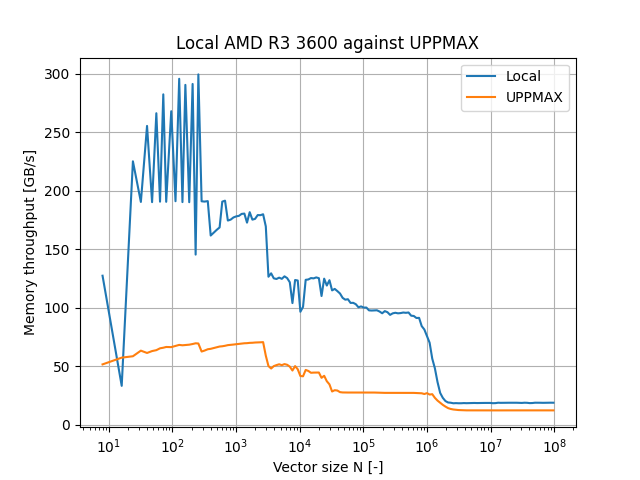
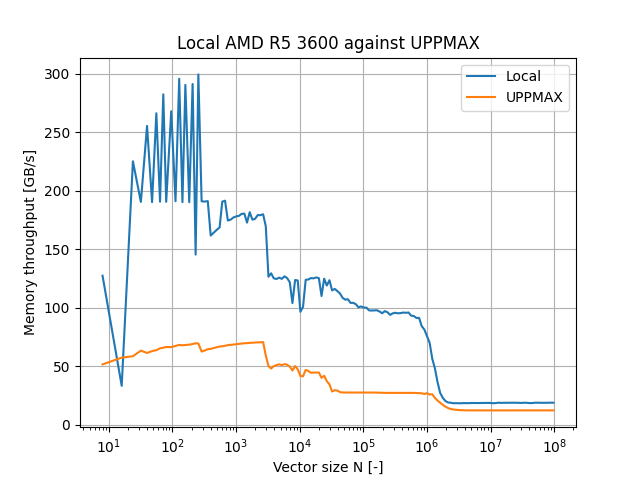
L1

Changed region(s): [[0.2812, 0.0625, 0.75, 0.125]]

diff --git a/L1/plots.py b/L1/plots.py
@@ -86,7 +86,7 @@ for filename in os.listdir(directory):
             plt.show()
         elif count == 8:
             plt.clf()
-            plt.title("Local AMD R3 3600 against UPPMAX")
+            plt.title("Local AMD R5 3600 against UPPMAX")
             plt.xscale("log")
             plt.plot(size_vec, mem_vec)
             plt.plot(size_O3, mem_O3)
@@ -114,7 +114,7 @@ for filename in os.listdir(directory):
             plt.clf()
         elif count == 12:
             plt.xscale("log")
-            plt.title("Memory alignment -O2, AMD R3 3600")
+            plt.title("Memory alignment -O2, AMD R5 3600")
             plt.legend(["Non-aligned", "Aligned"])
             plt.ylabel("Memory throughput [GB/s]")
             plt.xlabel("Vector size N [-]")
